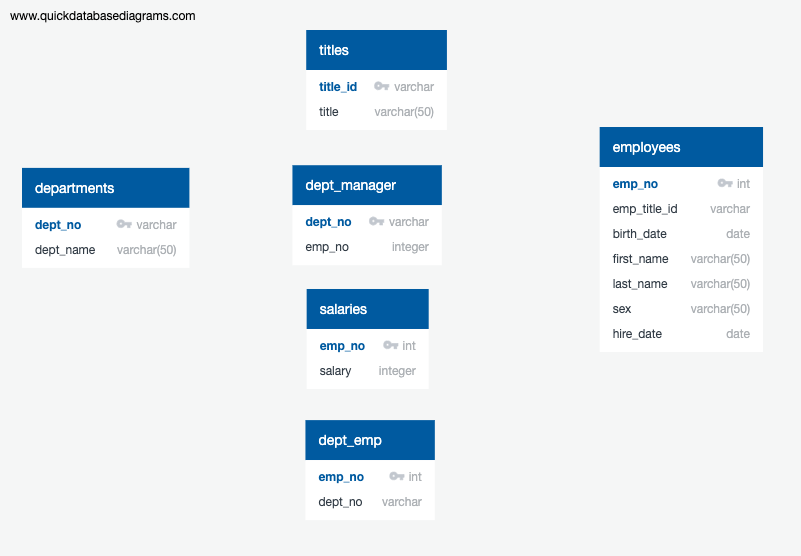
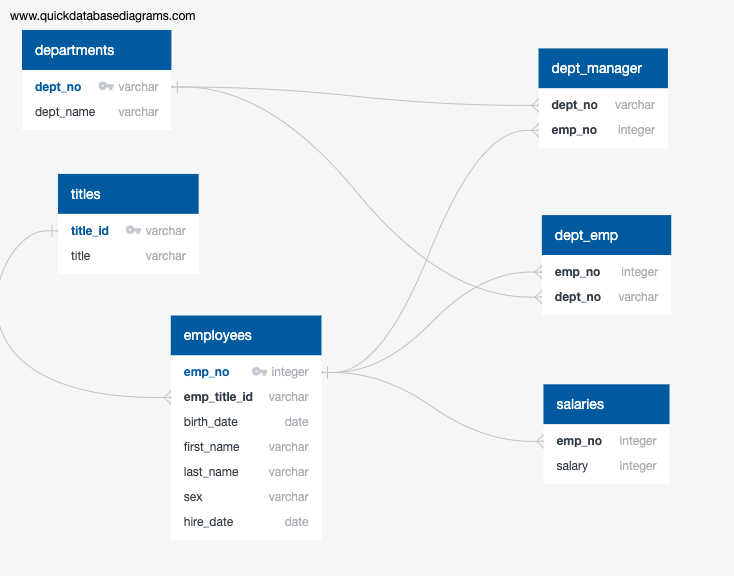
Uploading corrected tables. Updated ERD.

diff --git a/README.md b/README.md
@@ -1,66 +1,70 @@
 # sql-challenge
 
-Tables
-drop table "dept_emp"
-CREATE TABLE "dept_emp" (
-    "emp_no" integer   NOT NULL,
-    "dept_no" varchar   NOT NULL
-);
-
-drop table "dept_manager"
-CREATE TABLE "dept_manager" (
-    "dept_no" varchar   NOT NULL,
-    "emp_no" integer   NOT NULL,
-    CONSTRAINT "pk_dept_manager" PRIMARY KEY (
-        "emp_no"
-     )
-);
-
+Tables (Updated 11/27/22)
 CREATE TABLE "departments" (
     "dept_no" varchar   NOT NULL,
-    "dept_name" varchar(50)   NOT NULL,
+    "dept_name" varchar   NOT NULL,
     CONSTRAINT "pk_departments" PRIMARY KEY (
         "dept_no"
      )
 );
 
+CREATE TABLE "titles" (
+    "title_id" varchar   NOT NULL,
+    "title" varchar   NOT NULL,
+    CONSTRAINT "pk_titles" PRIMARY KEY (
+        "title_id"
+     )
+);
+
+CREATE TABLE "dept_manager" (
+    "dept_no" varchar   NOT NULL,
+    "emp_no" integer   NOT NULL
+);
+
+CREATE TABLE "salaries" (
+    "emp_no" integer   NOT NULL,
+    "salary" integer   NOT NULL
+);
+
+CREATE TABLE "dept_emp" (
+    "emp_no" integer   NOT NULL,
+    "dept_no" varchar   NOT NULL
+);
+
 CREATE TABLE "employees" (
-    "emp_no" int   NOT NULL,
+    "emp_no" integer   NOT NULL,
     "emp_title_id" varchar   NOT NULL,
     "birth_date" date   NOT NULL,
-    "first_name" varchar(50)   NOT NULL,
-    "last_name" varchar(50)   NOT NULL,
-    "sex" varchar(50)   NOT NULL,
+    "first_name" varchar   NOT NULL,
+    "last_name" varchar   NOT NULL,
+    "sex" varchar   NOT NULL,
     "hire_date" date   NOT NULL,
     CONSTRAINT "pk_employees" PRIMARY KEY (
         "emp_no"
      )
 );
 
-CREATE TABLE "salaries" (
-    "emp_no" int   NOT NULL,
-    "salary" integer   NOT NULL,
-    CONSTRAINT "pk_salaries" PRIMARY KEY (
-        "emp_no"
-     )
-);
+ALTER TABLE "dept_manager" ADD CONSTRAINT "fk_dept_manager_dept_no" FOREIGN KEY("dept_no")
+REFERENCES "departments" ("dept_no");
 
-CREATE TABLE "titles" (
-    "title_id" varchar   NOT NULL,
-    "title" varchar(50)   NOT NULL,
-    CONSTRAINT "pk_titles" PRIMARY KEY (
-        "title_id"
-     )
-);
+ALTER TABLE "dept_manager" ADD CONSTRAINT "fk_dept_manager_emp_no" FOREIGN KEY("emp_no")
+REFERENCES "employees" ("emp_no");
 
-select * from dept_emp;
+ALTER TABLE "salaries" ADD CONSTRAINT "fk_salaries_emp_no" FOREIGN KEY("emp_no")
+REFERENCES "employees" ("emp_no");
 
-select emp_no, emp_title_id
-from employees
-where emp_no = 10010;
+ALTER TABLE "dept_emp" ADD CONSTRAINT "fk_dept_emp_emp_no" FOREIGN KEY("emp_no")
+REFERENCES "employees" ("emp_no");
+
+ALTER TABLE "dept_emp" ADD CONSTRAINT "fk_dept_emp_dept_no" FOREIGN KEY("dept_no")
+REFERENCES "departments" ("dept_no");
+
+ALTER TABLE "employees" ADD CONSTRAINT "fk_employees_emp_title_id" FOREIGN KEY("emp_title_id")
+REFERENCES "titles" ("title_id");
 
 
-Data Analysis
+Data Analysis (updated 11/27/22)
 --Query listing the employee number, last name, first name, sex, and salary of each employee.
 select employees.emp_no, employees.last_name, employees.first_name, employees.sex, salaries.salary
 from employees join salaries on salaries.emp_no = employees.emp_no
@@ -117,4 +121,4 @@ order by emp_no;
 select last_name, count(*)
 from employees
 group by last_name
-order by last_name;
+order by "count" desc;
